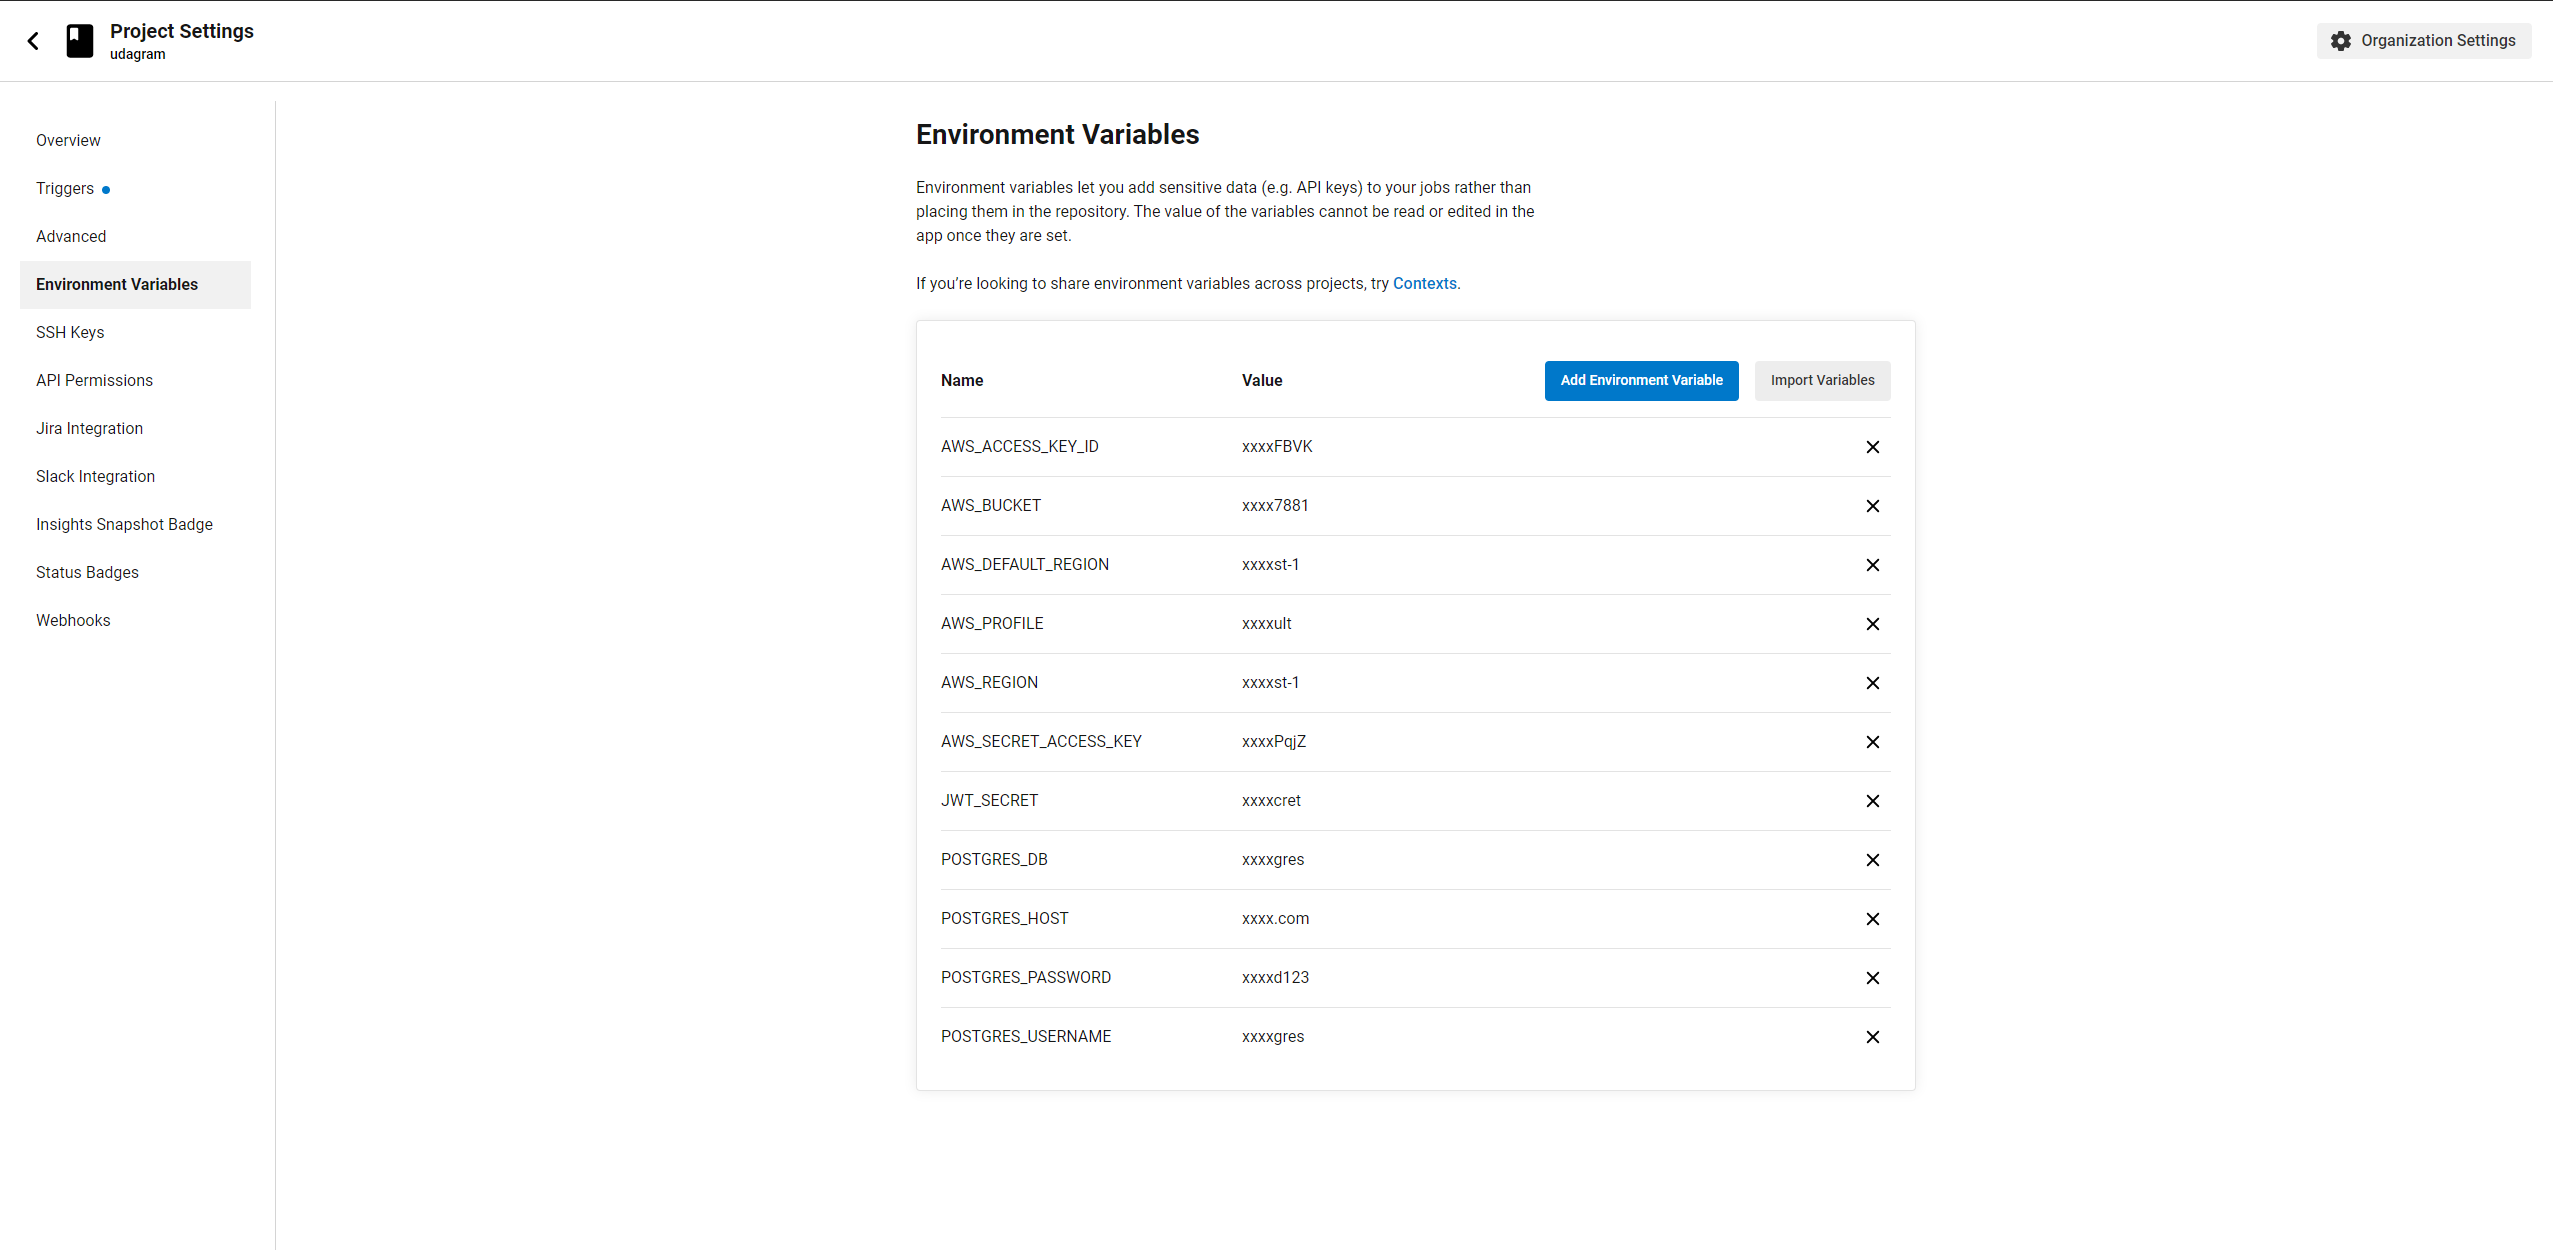
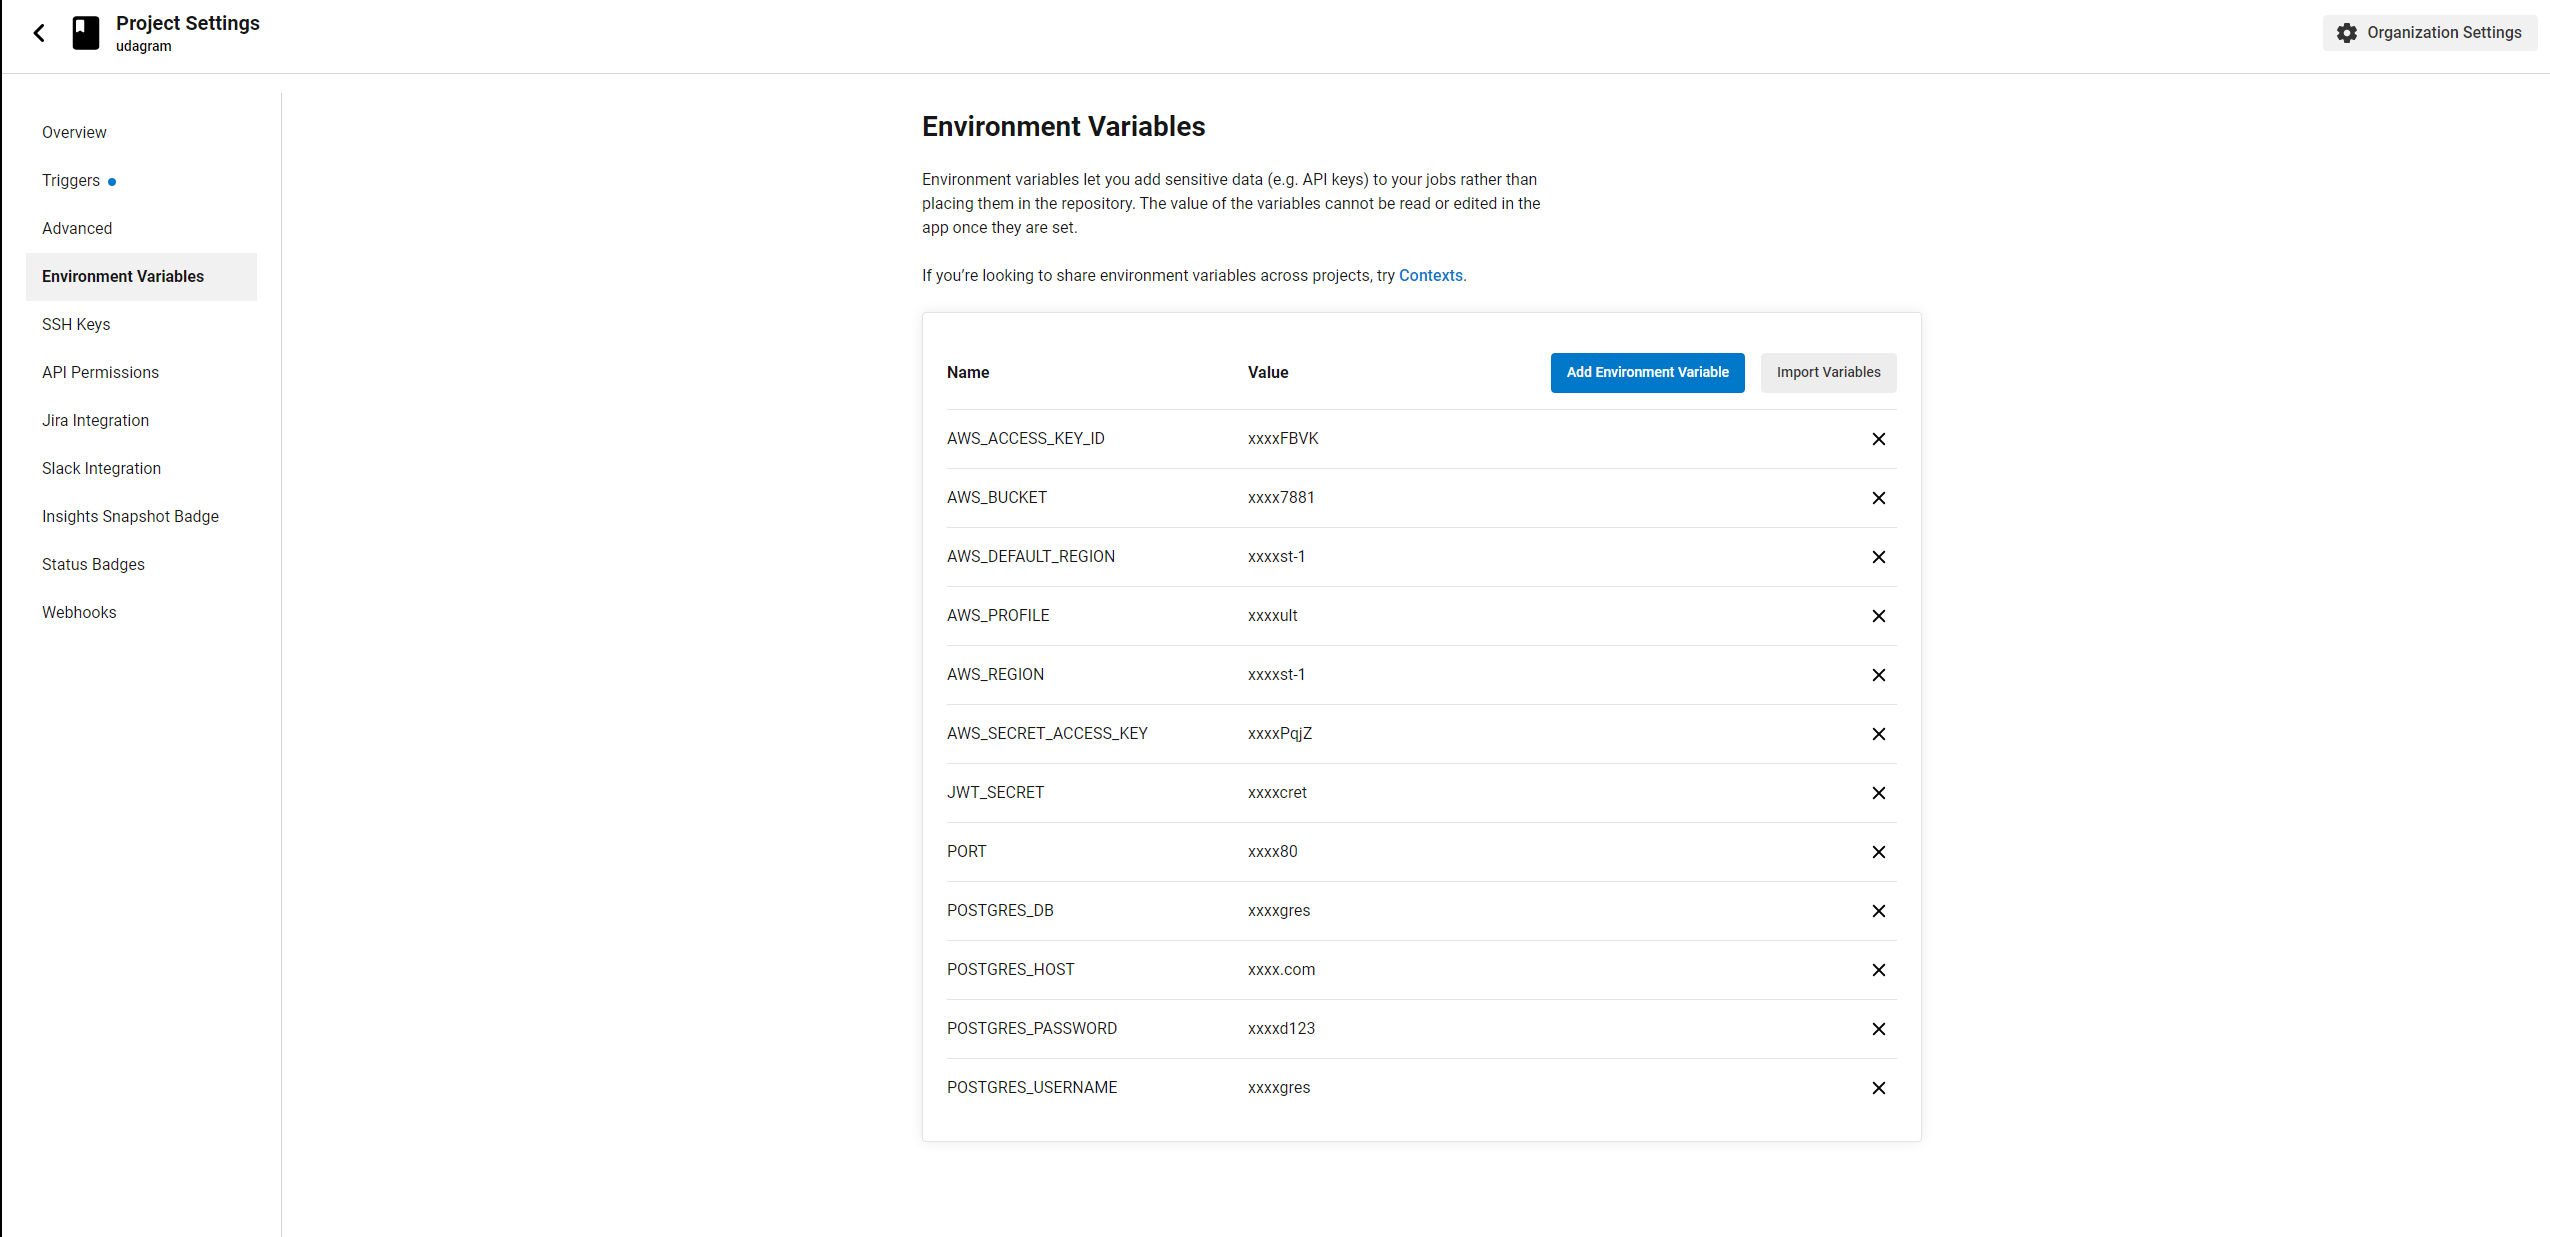
documentation update

diff --git a/udagram/udagram-api/src/server.ts b/udagram/udagram-api/src/server.ts
@@ -25,7 +25,7 @@ import { V0_FEED_MODELS, V0_USER_MODELS } from "./controllers/v0/model.index";
   console.log("Database Connected");
 
   const app = express();
-  const port = config.port;
+  const port = config.port || 8080;
 
   app.use(bodyParser.json());
 
